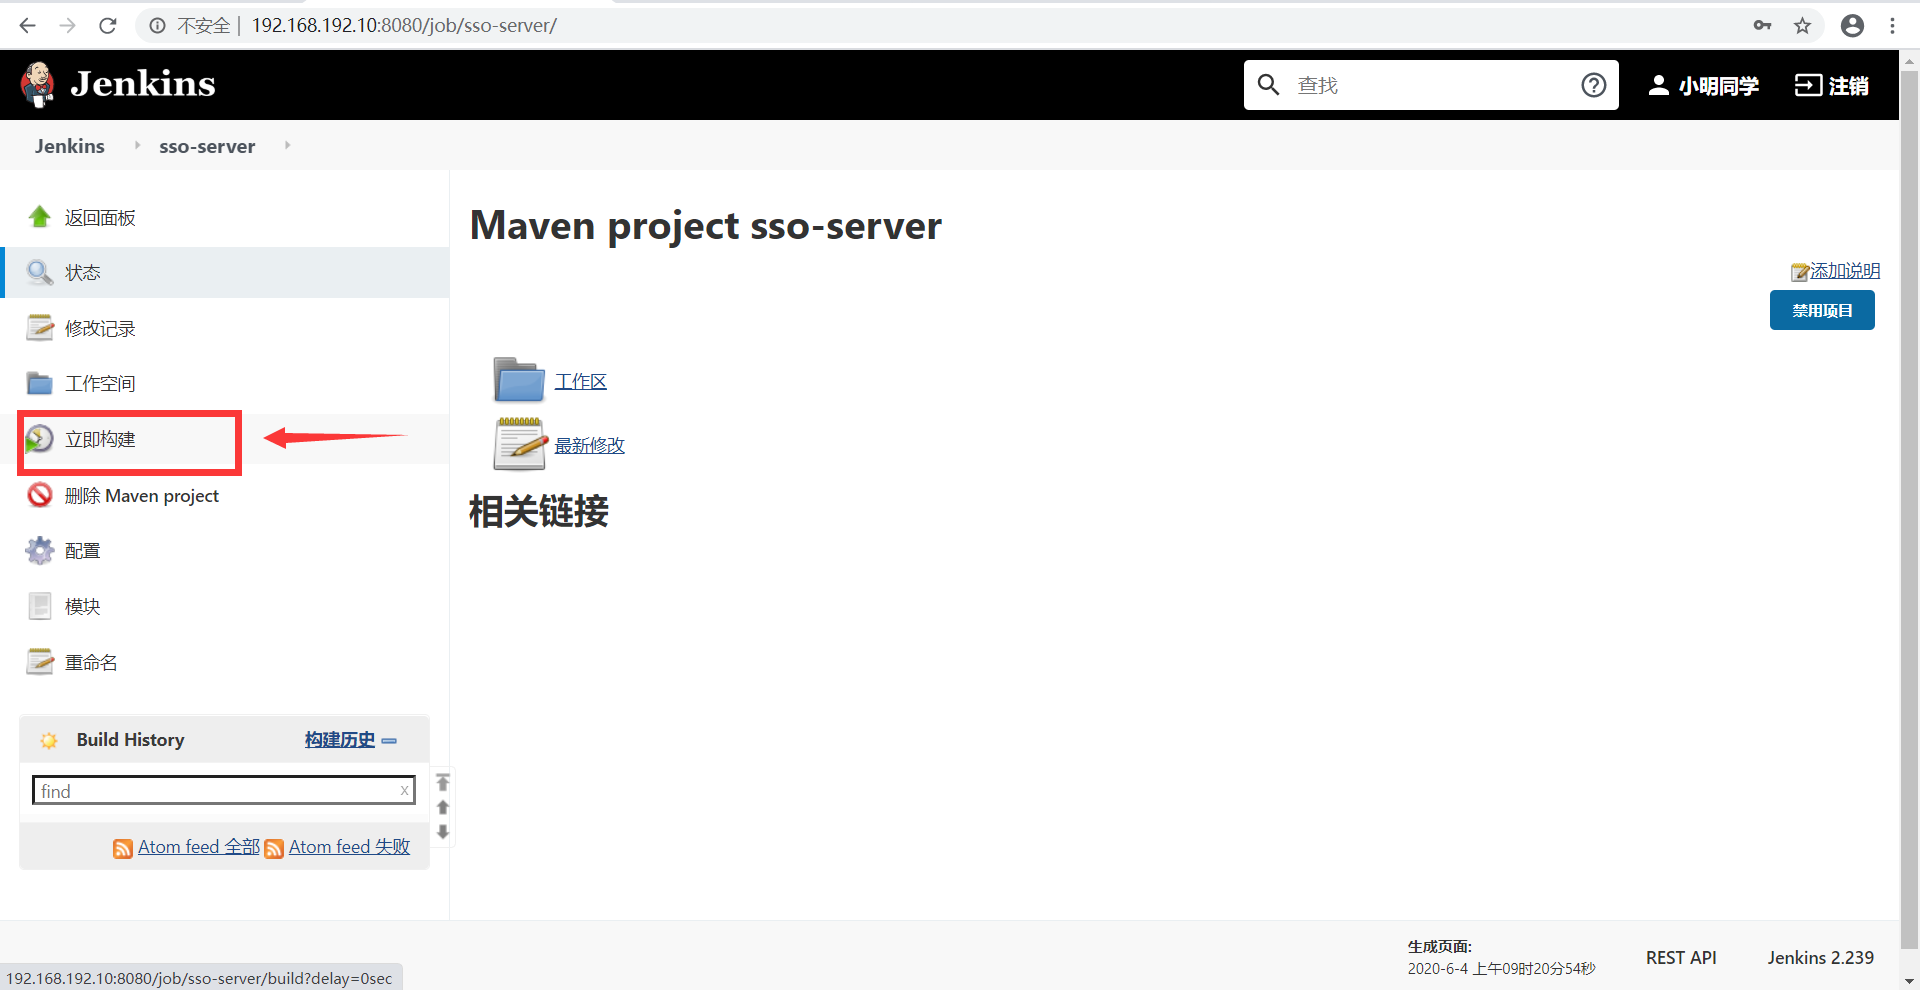
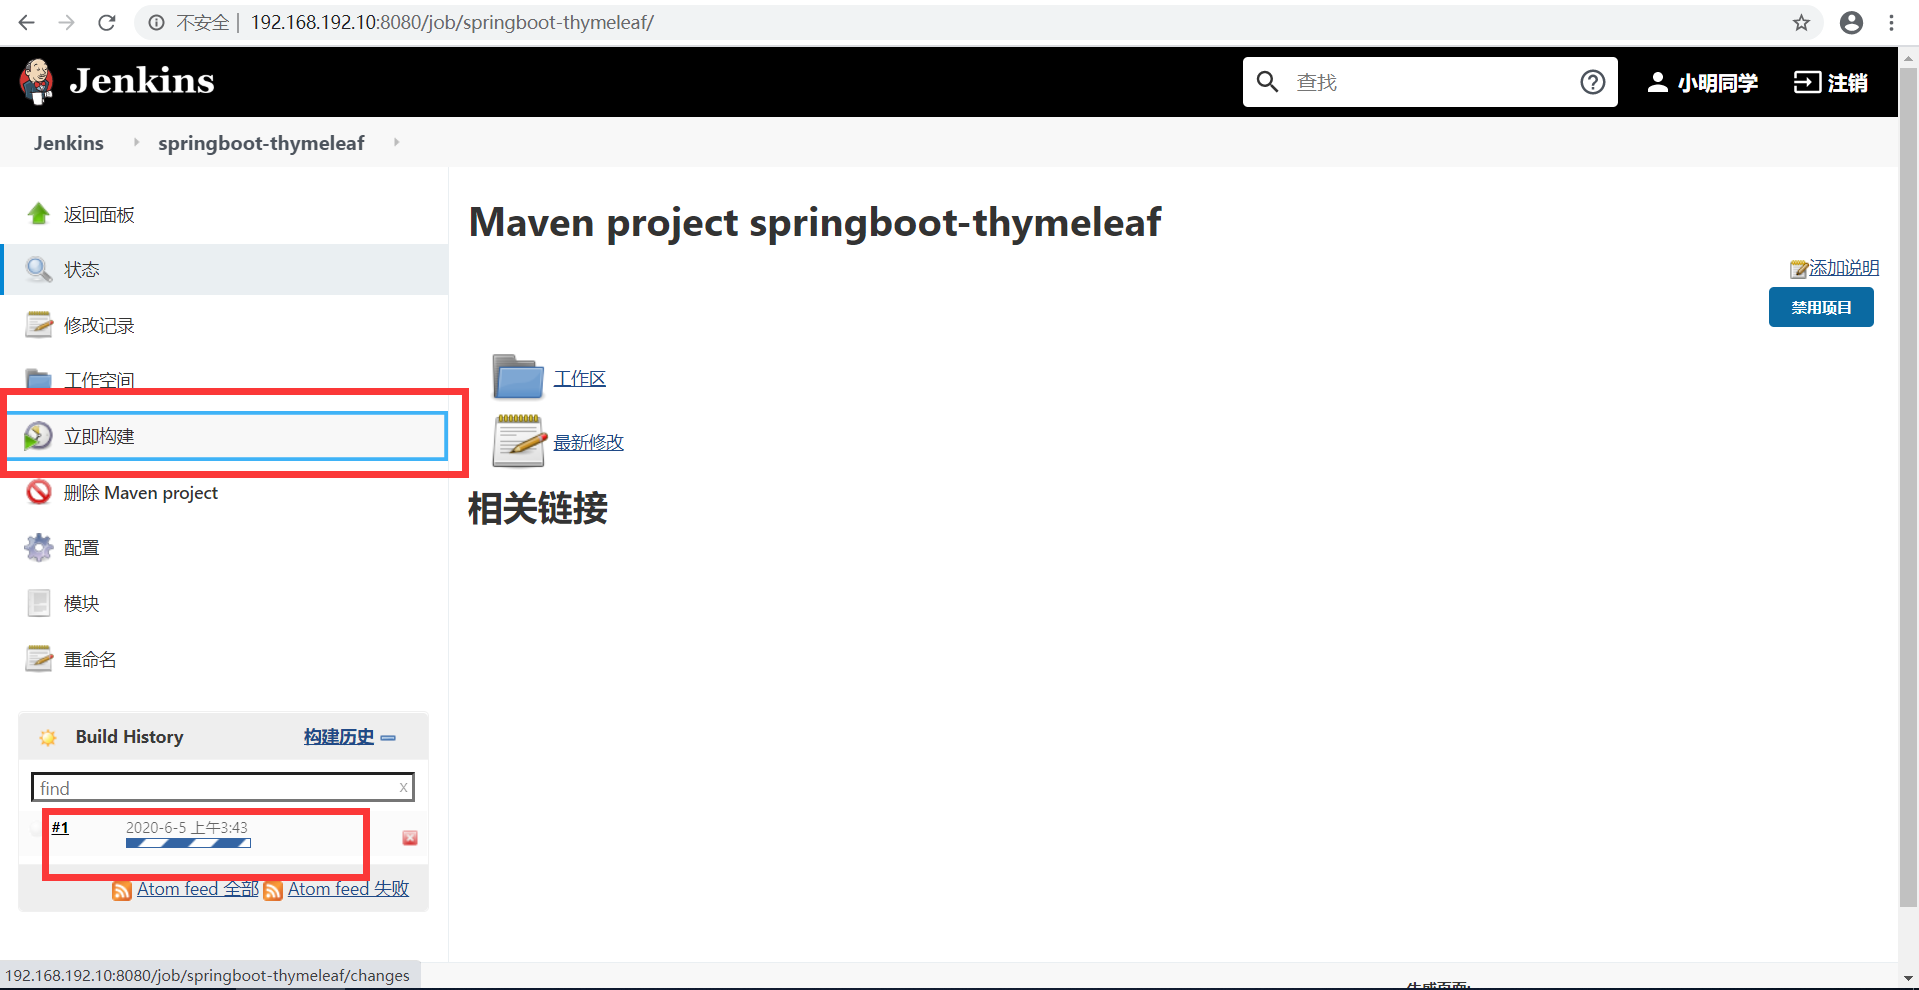
修改内容

diff --git a/_posts/2020-6-4-Docker进阶4—Docker 之 Jenkins自动化部署.md b/_posts/2020-6-4-Docker进阶4—Docker 之 Jenkins自动化部署.md
@@ -118,7 +118,7 @@ echo $JAVA_HOME
 （1）发布一个任务，如下：
 
 <div style="width:780px;height:410px;margin:50px auto">
-    <img alt="jenkins-sso.png" src="/images/jenkins-sso.png" width="780" height="410"/>
+    <img alt="jenkins-st.png" src="/images/jenkins-st.png" width="780" height="410"/>
 </div>
 
 （2）配置git地址及账号，如下：
